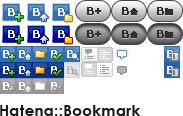
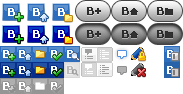
編集アイコンを作った。たくさんアイコンつくったなー

diff --git a/skin/classic/hatenabookmark/addPanel.css b/skin/classic/hatenabookmark/addPanel.css
@@ -3,7 +3,7 @@
 }
 
 .username-line {
-    background: #eee url("chrome://hatenabookmark/skin/images/logo-text.png") no-repeat 5px center;
+    background: #eee url("chrome://hatenabookmark/skin/images/logo-text.png") no-repeat 10px center;
     padding: 5px 0;
     border-bottom: 1px solid #ddd;
     margin-bottom: 5px;
@@ -35,7 +35,7 @@
 }
 
 grid.mainGrid {
-  margin: 10px;
+  margin: 5px;
 }
 
 label[anonid="titleLabel"] {
@@ -71,6 +71,12 @@ textbox {
 button[anonid="editTitleButton"],
 button[anonid="cancelEditTitleButton"] {
   font-size: 11px;
+  list-style-image: url(chrome://hatenabookmark/skin/images/buttons.png);
+  -moz-image-region: rect(46px 147px 62px 131px);
+}
+
+button[anonid="cancelEditTitleButton"] {
+  -moz-image-region: rect(62px 147px 78px 131px);
 }
 
 [anonid="commentCounterField"] {
@@ -97,7 +103,7 @@ button[anonid="cancelEditTitleButton"] {
 }
 
 caption {
-   background-color: rgba(255, 255, 255, 1) !important; 
+   background-color: transparent !important; 
    font-weight: bold;
    color: #222;
    margin: 0 0 5px 0;
@@ -114,7 +120,7 @@ groupbox {
 
 .groupbox-body {
   background: rgba(221, 234, 250, 0.7);
-  -moz-border-radius: 5px;
+  -moz-border-radius: 3px;
 }
 
 .hBookmarkCommandLabel {
